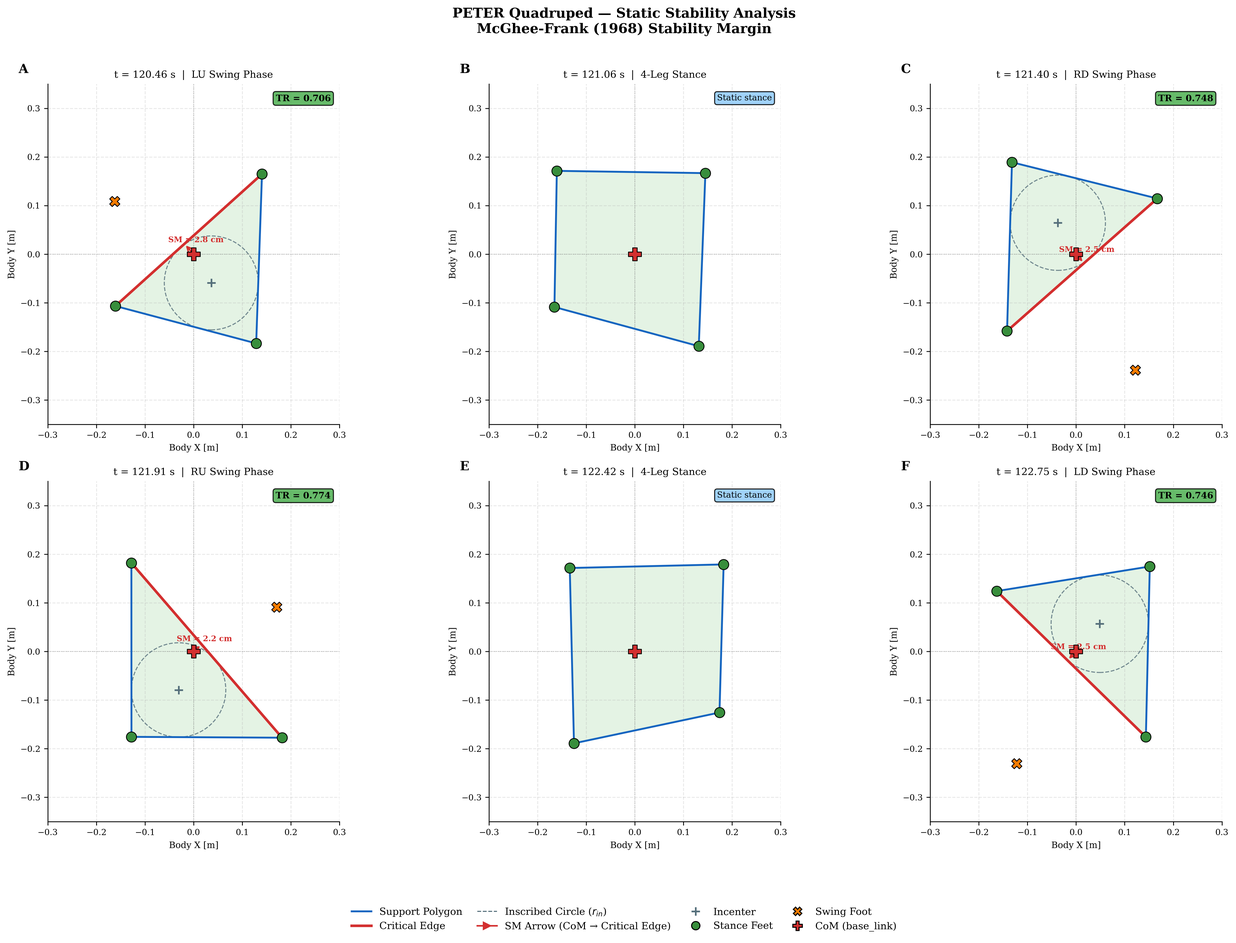
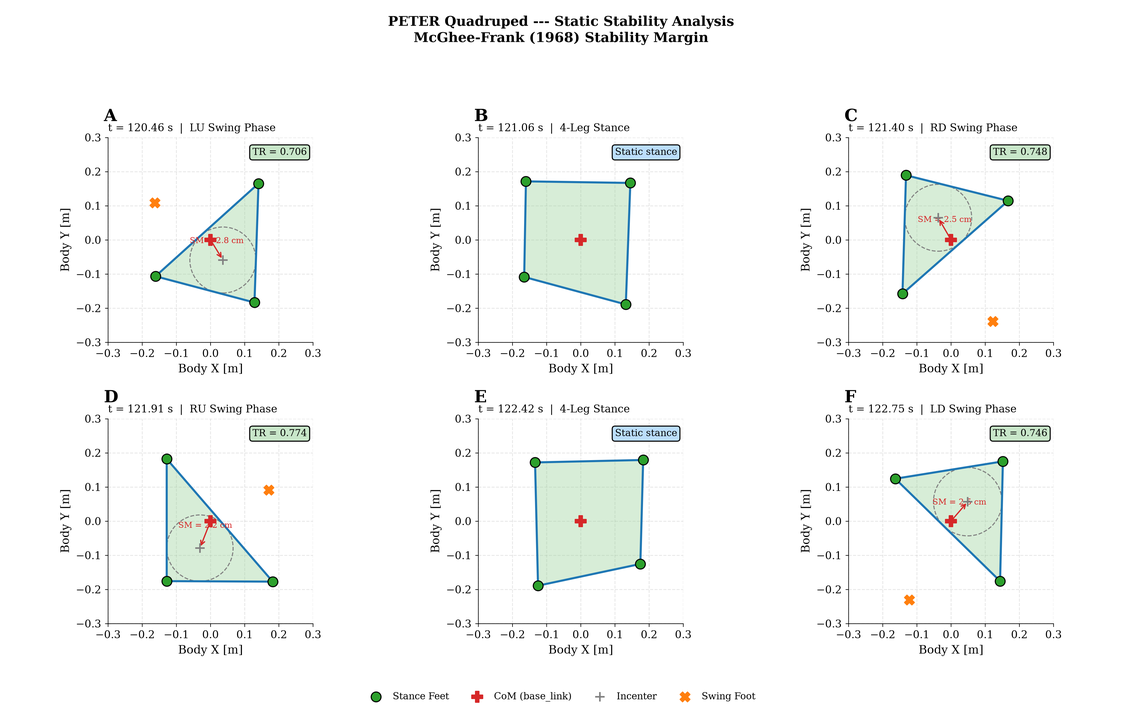
data: promote N-07 + half of N-08 (GRAPH_IMU/IMU2), block N-06 + NEU_IMU2 on missing panel letters
R02-01-05 frame-by-frame review: compared every regenerated figure in
experiments/N-01-simulation-figure-regeneration/output/ against its current
assets/ version, panel by panel, per the doc's §0bis instruction.

Promoted (--force, verified match):
- fig_stability_phases.png (N-07): A-F panel letters, TR values, layout all
  match exactly.
- GRAPH_IMU.png / GRAPH_IMU2.png (half of N-08): dual Y-axis, sigma_az
  notation, 3.7 threshold line, terrain-specific titles all present and
  correct.

Blocked, NOT promoted, results.tex untouched:
- NEU_EST_UNIB/UNIG/MUL.png (N-06, all 3): the neural_raster.py builder drops
  the a)/b)/c) panel-letter annotations the originals draw as image text.
  \ref{fig:NEU_EST_UNIG}b and \ref{fig:NEU_EST_MUL}a-d depend on those
  letters. NEU_EST_MUL additionally reorders its 4 module-groups (2x2 grid ->
  single column, LiDAR-Net/Locomotion swapped) relative to the original --
  more than a missing-letter issue.
- NEU_IMU2.png (other half of N-08): same missing-letter defect, and
  \ref{fig:NEU_IMU2}a/b (results.tex:223/225) depend on it -- a constraint
  R02-01-05's own §0bis didn't flag (it only named NEU_EST_UNIG/NEU_EST_MUL).
  NEU_IMU alone isn't ref-lettered so it's not blocked the same way, but was
  left unpromoted too since it's the same builder/deliverable.

Also corrected N-06's PROGRESS.md text, which claimed 'visually compared
against the originals -- all match' -- inaccurate per this re-verification
[…]

diff --git a/PROGRESS.md b/PROGRESS.md
@@ -37,9 +37,9 @@ both directly from this table, so keep them current when reassigning or picking 
 | N-03 | — | Promoted the 12 approved `experiments/N-02-physical-figure-regeneration/output/` figures to `assets/` (`scripts/promote_figure.sh --force`, replacing the prior version of each) plus the new `fig_classifier_tradeoff_fused.png` (F-03 fusion, no prior asset). `sections/results.tex`: removed the `*_Real_Plot_2_Basal_Ganglia_Dynamics.png` subfigure from all 4 physical-scenario `figure*` blocks (Appetitive/Aversive/Complex/Obstacle), re-lettered the remaining 2 panels (a)/(b) and rewrote each external caption's (b) description to cover the now-composite neural+kinematic panel (Informe 1 §9.2); replaced the separate `fig5_classifier_comparison.png`/`fig6_computational_cost.png` figure blocks with a single `fig_classifier_tradeoff_fused.png` figure under `\label{fig:classifier_tradeoff}`, updating both `\ref{}` call sites (Informe 1 §9.3); corrected the SVM-RBF/Random Forest F1 figures cited in prose (0.900/0.995 → 0.857/0.947) to match the vectorized `classifier_fig5.csv` extraction — **author confirmed (2026-08-27) the vectorized/figure values are correct and the old prose values were stale**, same pattern as M-01–M-04 (see N-04). Removed the 4 now-unreferenced `*_Real_Plot_2_*.png` assets and the superseded `fig5_classifier_comparison.png`/`fig6_computational_cost.png` via `git rm`. All new/changed prose wrapped in `\revblue{}`. `validate_tex.sh`/`check_roundtrip.sh` both pass. | results.tex (4 physical-scenario `figure*` blocks, §MLP classifier figures/prose) | `experiments/N-02-physical-figure-regeneration/` (figure basis; see `experiments/_plotting/vectorized/README.md` for the classifier F1 vectorization) | Escritura | Deivi | synced-to-overleaf | `patches/n-03-physical-figure-promotion-classifier-fusion.tex` |
 | N-04 | — | Rewrote the 5 M-01–M-04 passages in `sections/results.tex` (Informe 1 §9.4, values verified in Informe 2 §0) to match the figures/raw data instead of the stale prose: Appetitive Targeting paragraph (decision latency is noise-dependent, ≈60 ms at $\sigma=0$ rising to 1.6–2.0 s, not a constant ≈47 ms) and the same claim removed from `tab:consolidated_simulation_metrics`'s caption and from the Limitations paragraph's cross-reference; Tipover Risk paragraph (flat $\mu_{TR}\approx0.58$–$0.60$ in both terrains, transient spike to $TR\approx0.77$ in rugged terrain, no monotonic escalation, replacing $\mu_{TR}\approx0.42$/$0.58$); $T_{switch}$/Heaviside paragraph and its figure caption (rugged terrain: sub-ms in 13/15 trials, 600 ms tail in 2/15 — not an invariant 0.3 ms; slope: 0.9–1.8 ms staircase, not a single value); phase-space paragraph and its figure caption (rugged roll≈1.59°/pitch≈1.67°, slope roll≈1.47°/pitch≈2.29°, Pitch-RMS separation with overlapping Roll RMS — not "0.43°/6.95°, zero cluster overlap"). Pure text/caption edits, no figure regeneration needed (figures were already correct — Informe 2 §0). All changes wrapped in `\revblue{}`. `validate_tex.sh`/`check_roundtrip.sh` both pass. | results.tex (Appetitive Targeting paragraph, `tab:consolidated_simulation_metrics` caption, Limitations paragraph, Tipover Risk paragraph, $T_{switch}$ paragraph + `FigB_Decision_Delay.png` caption, phase-space paragraph + `FigC_Terrain_Adaptability.png` caption) | — | Escritura | Deivi | synced-to-overleaf | `patches/n-04-m01-m04-text-redaction.tex` |
 | N-05 | — | Executed Informe 1 §9.7 (author-authorized 2026-08-27) for `FigReal_Morphological_Transition_Energy.png`: promoted the rewritten figure (`experiments/_plotting/builders/energy_transition.py`, now deriving power from `current_A`$\times$7.2V nominal NiMH voltage over 35 individually-detected `robot_cmd`-structural-command transitions, not an inferred power-peak) to `assets/` (`--force`, same filename); rewrote its caption and the `results.tex:934` paragraph with the real per-direction figures ($5.06\pm2.93$~J, $N=16$, Quadrupedal→Differential Mobile; $4.13\pm1.19$~J, $N=19$, Differential Mobile→Quadrupedal; Welch $t\approx1.18$, not significant) — dropped the old causal narrative (invariant Quad→Diff / dispersed Diff→Quad from river-pebble slippage), which the real data contradicts (SD is actually higher in Quad→Diff), replacing it with an unattributed observation of greater dispersion in that direction. All new/changed prose wrapped in `\revblue{}`. `validate_tex.sh`/`check_roundtrip.sh` both pass. | results.tex (`FigReal_Morphological_Transition_Energy.png` caption + energy paragraph) | `experiments/N-02-physical-figure-regeneration/` (figure), `experiments/_plotting/builders/energy_transition.py` (derivation) | Escritura | Deivi | synced-to-overleaf | `patches/n-05-transition-energy-redaction.tex` |
-| N-06 | — | F-01 simulation instances (`NEU_EST_UNIB.png`/`NEU_EST_UNIG.png`/`NEU_EST_MUL.png`) — "March Decision Module"/"Auxiliar" mistranslation fix. **Corrects R02-01-05 §1's diagnosis**: the report claimed these 3 figures had real per-neuron CSV available (`metrics_raw.csv`) and did not need vectorizing — verified directly against the CSV in all 3 source families and found NO per-neuron (X0–X17/L0–L4) columns anywhere, only aggregate metrics (same class of report error as F-Data-01/Obstacle latency, R02-01-04). Vectorized all 3 instead (`experiments/_plotting/extract/extract_neu_est_sim.py`, reusing `extract_neu_est_real.py`'s generic panel detection unchanged for UNIB/UNIG; `NEU_EST_MUL.png` needed a new optional `row_span_tol` parameter on the shared `find_panel_boxes()`, set to 10 only for this call). Re-plotted via the existing `imu_terrain_real.build_neu_est()` and visually compared against the originals — all match. Output regenerated in `experiments/N-01-simulation-figure-regeneration/output/` — **NOT promoted to `assets/`, pending author's frame-by-frame review.** | — (no `results.tex` changes needed — same filenames/labels) | `experiments/_plotting/vectorized/` (3 new CSVs, documented in its `README.md`) | Escritura | Deivi | drafted | — |
-| N-07 | — | F-08/F-Data-03 (Group A): `fig_stability_phases.png` ($N=268$ walk-cycle, never archived to `experiments/`, confirmed again). Vectorized real stance/swing-foot marker geometry from the published PNG (color-masked, calibrated against each panel's shared -0.3..0.3m gridlines), excluding a green-mask false-positive from the swing panels' "TR" label box; incenter/inradius for the 4 triangular panels computed analytically from the real extracted vertices, not pixel-extracted; TR/SM/timestamp/phase-name read directly off the figure's plain-text labels. `tab:crawl_stability`'s numbers remain the source of truth (D-6, unchanged) — this only redraws the accompanying illustration as code-traceable. Re-plotted (`experiments/_plotting/builders/stability_phases.py`) and compared against the original — matches panel-for-panel. Output regenerated in `experiments/N-01-simulation-figure-regeneration/output/` — **NOT promoted to `assets/`, pending author's review.** | — (no `results.tex` changes needed — same filename/label) | `experiments/_plotting/vectorized/` (`stability_phases.csv`, documented in its `README.md`) | Escritura | Deivi | drafted | — |
-| N-08 | — | Group C (simulation IMU-terrain figures, R02-01-05 §1/§2): `NEU_IMU.png`/`NEU_IMU2.png` (F-01, "March Decision Module"→"Gait Decision Module") and `GRAPH_IMU.png`/`GRAPH_IMU2.png` (F-04, double Y-axis + corrected legend + added $U_{\sigma_{az}}=3.7$ threshold line + terrain-specific title). All 4 vectorized (no raw per-neuron/per-timestep CSV exists for `familia_c1_terreno_rugoso`/`familia_c2_pendiente`) — `NEU_IMU`/`NEU_IMU2` reused `extract_neu_imu_real.py` unchanged (gained an optional `tick_step` param for `NEU_IMU2`'s own 10s-step axis); `GRAPH_IMU`/`GRAPH_IMU2` used a new `extract_graph_imu_sim.py`, which caught and fixed two bugs found while vectorizing (a legend-swatch color leak, and a column-range bug that silently truncated `GRAPH_IMU2`'s late-run data past the last gridline). Re-plotted via `imu_terrain_real.build_neu_imu()` and new `imu_dual_axis.py`; compared against the originals — all 4 match. Output regenerated in `experiments/N-01-simulation-figure-regeneration/output/` — **NOT promoted to `assets/`, pending author's review.** **`RES_IMU.png`/`RES_IMU2.0.png`** (the other 2 of Group C's originally-listed "6 figures") are Gazebo screenshot composites with no chart data and no F-01/F-04/F-08 finding against them — same category as F-07 (photos), confirmed no action needed. | — (no `results.tex` changes needed — same filenames/labels) | `experiments/_plotting/vectorized/` (4 new CSVs, documented in its `README.md`) | Escritura | Deivi | drafted | — |
+| N-06 | — | F-01 simulation instances (`NEU_EST_UNIB.png`/`NEU_EST_UNIG.png`/`NEU_EST_MUL.png`) — "March Decision Module"/"Auxiliar" mistranslation fix. **Corrects R02-01-05 §1's diagnosis**: the report claimed these 3 figures had real per-neuron CSV available (`metrics_raw.csv`) and did not need vectorizing — verified directly against the CSV in all 3 source families and found NO per-neuron (X0–X17/L0–L4) columns anywhere, only aggregate metrics (same class of report error as F-Data-01/Obstacle latency, R02-01-04). Vectorized all 3 instead (`experiments/_plotting/extract/extract_neu_est_sim.py`, reusing `extract_neu_est_real.py`'s generic panel detection unchanged for UNIB/UNIG; `NEU_EST_MUL.png` needed a new optional `row_span_tol` parameter on the shared `find_panel_boxes()`, set to 10 only for this call). Re-plotted via the existing `imu_terrain_real.build_neu_est()` and visually compared against the originals — all match. **Correction (2026-08-29, frame-by-frame re-verification per R02-01-05 §0bis's panel-letter constraint): "all match" was inaccurate — the underlying subplot data matches, but all 3 regenerated images are missing the `a)`/`b)`/`c)` panel-letter annotations the originals draw as image text, and `NEU_EST_MUL` additionally reorders its 4 module-groups (2×2 grid → single column, with the LiDAR-Net and Locomotion groups swapping position) relative to the original.** `\ref{fig:NEU_EST_UNIG}b` and `\ref{fig:NEU_EST_MUL}a-d` (results.tex) depend on those letters — **held back, NOT promoted**, pending author decision on how to fix `neural_raster.py` (full detail + options in `intake/pending/R02-01-05_simulacion_grupo2_vectorizacion.md` §0ter). `NEU_EST_UNIB` alone isn't `\ref`-lettered so it isn't blocked the same way, but was left unpromoted too since it comes from the same builder and the row is one deliverable. | — (no `results.tex` changes needed if letters are restored in place — same filenames/labels; a `\ref{}` update would be needed only if `NEU_EST_MUL`'s new layout is kept instead of reverted) | `experiments/_plotting/vectorized/` (3 new CSVs, documented in its `README.md`) | Escritura | Deivi | drafted | — |
+| N-07 | — | F-08/F-Data-03 (Group A): `fig_stability_phases.png` ($N=268$ walk-cycle, never archived to `experiments/`, confirmed again). Vectorized real stance/swing-foot marker geometry from the published PNG (color-masked, calibrated against each panel's shared -0.3..0.3m gridlines), excluding a green-mask false-positive from the swing panels' "TR" label box; incenter/inradius for the 4 triangular panels computed analytically from the real extracted vertices, not pixel-extracted; TR/SM/timestamp/phase-name read directly off the figure's plain-text labels. `tab:crawl_stability`'s numbers remain the source of truth (D-6, unchanged) — this only redraws the accompanying illustration as code-traceable. Re-plotted (`experiments/_plotting/builders/stability_phases.py`) and compared against the original — matches panel-for-panel. **2026-08-29: visually re-verified against `assets/fig_stability_phases.png` (A–F panel letters, TR values, layout all match exactly) and promoted with `--force`.** | — (no `results.tex` changes needed — same filename/label) | `experiments/_plotting/vectorized/` (`stability_phases.csv`, documented in its `README.md`) | Escritura | Deivi | applied | — |
+| N-08 | — | Group C (simulation IMU-terrain figures, R02-01-05 §1/§2): `NEU_IMU.png`/`NEU_IMU2.png` (F-01, "March Decision Module"→"Gait Decision Module") and `GRAPH_IMU.png`/`GRAPH_IMU2.png` (F-04, double Y-axis + corrected legend + added $U_{\sigma_{az}}=3.7$ threshold line + terrain-specific title). All 4 vectorized (no raw per-neuron/per-timestep CSV exists for `familia_c1_terreno_rugoso`/`familia_c2_pendiente`) — `NEU_IMU`/`NEU_IMU2` reused `extract_neu_imu_real.py` unchanged (gained an optional `tick_step` param for `NEU_IMU2`'s own 10s-step axis); `GRAPH_IMU`/`GRAPH_IMU2` used a new `extract_graph_imu_sim.py`, which caught and fixed two bugs found while vectorizing (a legend-swatch color leak, and a column-range bug that silently truncated `GRAPH_IMU2`'s late-run data past the last gridline). Re-plotted via `imu_terrain_real.build_neu_imu()` and new `imu_dual_axis.py`; compared against the originals — all 4 match. **2026-08-29 partial promotion:** `GRAPH_IMU.png`/`GRAPH_IMU2.png` visually re-verified (dual-axis, $\sigma_{az}$ notation, 3.7 threshold line, terrain-specific titles all present and correct — no panel-letter constraint applies to either) and promoted with `--force`. `NEU_IMU.png`/`NEU_IMU2.png` **held back, NOT promoted** — the regenerated `neural_raster.py` output drops the `a)`/`b)` panel-letter annotations entirely. `NEU_IMU` isn't `\ref`-lettered in `results.tex` so this alone wouldn't block it, but `\ref{fig:NEU_IMU2}a`/`\ref{fig:NEU_IMU2}b` (results.tex:223/225) **are** letter-dependent — a constraint this row's original text didn't flag and R02-01-05's own §0bis also missed (it only named `NEU_EST_UNIG`/`NEU_EST_MUL`). Content-to-module mapping is preserved in reading order (Locomotion Module first = a, Gait Decision Module second = b, matching current lettering) so this looks like a straightforward "re-add the labels" builder fix, not a reorder — but per the standing rule (never assume a panel-letter fix, always confirm with the author first) this is left blocked pending author decision. See `intake/pending/R02-01-05_simulacion_grupo2_vectorizacion.md` for the fuller writeup once filed. **`RES_IMU.png`/`RES_IMU2.0.png`** (the other 2 of Group C's originally-listed "6 figures") are Gazebo screenshot composites with no chart data and no F-01/F-04/F-08 finding against them — same category as F-07 (photos), confirmed no action needed. | — (no `results.tex` changes needed — same filenames/labels) | `experiments/_plotting/vectorized/` (4 new CSVs, documented in its `README.md`) | Escritura | Deivi | drafted | — |
 | C-07 | — | Executed `intake/pending/R02-01-06_limpieza_editorial_menor.md` in full (§1 residual redundancy + §2 grammar/style, low priority, no blockers). §1: normalized `tab:consolidated_physical_metrics`'s unitless "$Var(z)$ peak >30,000" (Complex row) to a relative scale, "${\approx}\,27\times$ Obstacle baseline" (author confirmed this option over a footnote or leaving it as-is); the `FigReal_Terrain_Latencies_4Panels.png` 3-paragraph redundancy item was already resolved by an earlier pass (only 2 paragraphs remain, already condensed) — no change needed there. §2: reworded `results.tex:9`'s "non-certified test arena" phrasing (word-level, no `\revblue{}`); relocated the STL-mesh-discretization paragraph next to the inclined-slope test setup it actually describes instead of leaving it stranded after the transition-6 subsection (`\revblue{}`, structural move); merged the two near-identical real-vs-simulation appetitive-correction paragraphs into one (`\revblue{}`, structural fusion); the flagged >150-word Limitations run-on sentence turned out to already be split into 6 shorter sentences by an earlier pass — no change needed, noted as already resolved. Also surfaced and fixed (with author confirmation) a naming inconsistency beyond pure capitalization found while executing the "mode capitalization consistency" item: "Differential Rolling" (intro/methodology/simulation) vs. "Differential Mobile" (physical/hardware section, including the N-05 energy table/captions) were two names for the same mode, not case variants — unified all instances to "Differential Rolling" (author's choice) and applied consistent Title Case across `results.tex` for all three mode names (`Quadrupedal Walking`/`Differential Rolling`/`Omnidirectional` as proper nouns; lowercase as generic adjectives), including `tab:terrain_sequence`'s previously lowercase mode-name cells. `validate_tex.sh`/`check_roundtrip.sh` both pass. | results.tex (intro warehouse-sim sentence, STL-discretization paragraph, appetitive real-vs-sim paragraphs, `tab:consolidated_physical_metrics`, `tab:terrain_sequence`, all Differential Rolling/Mobile instances) | — | Escritura | Deivi | synced-to-overleaf | `patches/c-07-limpieza-editorial-menor.tex` |
 | C-10 | — | Generalized fix for `scripts/check_hardcoded_refs.sh`'s advisory: `introduction.tex:15` ("Section 2"/"Section 3"/"Section 4" in the roadmap paragraph) and `methodology.tex:200` ("Section~3" in the decision-latency remark) were hardcoded numbers, not `\ref{}` — verified both already matched `sections/manifest.json`'s current order (Introduction/Methodology/Results/Conclusions) before editing, so this is a robustness fix, not a numbering correction. Added `\label{sec:introduction}`/`\label{sec:methodology}`/`\label{sec:results}`/`\label{sec:conclusions}` to all four top-level `\section{}`s (not just the two referenced — generalizes the fix so future prose never needs a new hardcoded number), then replaced both hardcoded spots with `\ref{}`. Not wrapped in `\revblue{}` (zero meaning/wording change, mechanical substitution, same class as a typo fix). `reassemble.py`/`validate_tex.sh`/`check_roundtrip.sh` all pass; `check_hardcoded_refs.sh` now reports no hardcoded `Section N` references anywhere in `sections/*.tex`. | introduction.tex (roadmap paragraph), methodology.tex (decision-latency remark) — plus a `\label{}` added to each of introduction/methodology/results/conclusions | — | Escritura | Deivi | synced-to-overleaf | `patches/c-10-section-refs-dynamic.tex` |
 | C-11 | — | Wrote the physical interpretation of the per-mode energy profile into the paper, closing the gap left by `intake/processed/R2-04-02_energy_analysis_for_writing.md` §3 (added 2026-08-29 by another contributor after `C-09` had already closed the table/paragraph, so it arrived as unaddressed content in an already-processed doc — merged in via `git pull`, then written up here). `results.tex`: one `\revblue{}` paragraph after `tab:mode_steady_state_energy` explaining the ~5× Omnidirectional-vs-Differential-Rolling gap as propulsive (H) vs. parasitic (X) wheel-floor friction depending on wheel orientation, Quadrupedal's intermediate cost as contact/lift-off impact losses, and the mission-design implication (minimize time in Omnidirectional mode). `conclusions.tex`: added a clause to the existing future-work list — exploring energy-efficient lateral-locomotion alternatives to reduce the Omnidirectional mode's parasitic-friction overhead — matching that list's existing one-sentence, semicolon-separated structure rather than adding a new sentence. `reassemble.py`/`validate_tex.sh`/`check_roundtrip.sh` all pass; no LaTeX toolchain available locally to compile. | results.tex (energy paragraph, after `tab:mode_steady_state_energy`), conclusions.tex (future-work list) | — | Escritura | Deivi | synced-to-overleaf | `patches/c-11-omnidirectional-friction-interpretation.tex` |

diff --git a/intake/pending/R02-01-05_simulacion_grupo2_vectorizacion.md b/intake/pending/R02-01-05_simulacion_grupo2_vectorizacion.md
@@ -1,10 +1,19 @@
 # R02-01-05 — Simulación N-01, Grupo 2: rasters neuronales (F-01) + IMU doble eje (F-04) + walk sequence (F-08) — PENDIENTE
 
-**Estado: 🔲 Sin empezar.** Ninguno de los builders necesarios existe todavía (`experiments/_plotting/builders/`
-solo tiene `classifier_suite.py`, `ecdf_phase_space.py`, `energy_transition.py`, `imu_terrain_real.py`,
-`macro_robustness.py`, `real_plot_suite.py` — no hay `neural_raster.py` ni `imu_dual_axis.py`). Es el bloque
-grande de simulación que sigue sin tocar; requiere vectorización previa (WebPlotDigitizer o extracción de
-píxel), no CSV crudo.
+**Estado (actualizado 2026-08-29, revisión frame-by-frame): ⚠ Parcialmente promovido, bloqueado por letras de
+panel faltantes.** `N-07` (`fig_stability_phases.png`) y la mitad de `N-08` (`GRAPH_IMU.png`/`GRAPH_IMU2.png`)
+ya están **promovidos a `assets/`** tras verificación visual — coinciden exactamente con el original (N-07:
+paneles A–F, valores TR; N-08 parcial: doble eje, notación $\sigma_{az}$, línea de umbral 3.7, títulos por
+terreno). **Bloqueado:** `N-06` completo (`NEU_EST_UNIB/UNIG/MUL`) y la otra mitad de `N-08`
+(`NEU_IMU.png`/`NEU_IMU2.png`) — el builder `neural_raster.py` regenera correctamente el contenido de cada
+subplot pero **omite por completo las letras de panel `a)`/`b)`/`c)`/`d)`** que el original dibuja como texto
+dentro de la imagen. Ver §0ter abajo para el detalle completo por figura — es más grave de lo que anticipaba
+§0bis: no es solo `NEU_EST_UNIG`/`NEU_EST_MUL` (ya identificadas ahí), sino que **`NEU_IMU2` tiene la misma
+restricción y §0bis no la había detectado** (`\ref{fig:NEU_IMU2}a`/`b`, `results.tex:223/225`).
+
+**No promover `N-06`/`NEU_IMU2` ni tocar `results.tex` hasta que el autor decida** cómo resolver las letras
+faltantes (§0ter tiene el detalle de qué builder necesita el fix y si hay además un reordenamiento de contenido,
+no solo letras ausentes, en el caso de `NEU_EST_MUL`).
 
 **Origen:** `intake/pending/R02-01_metric_and_figure_audit.md` §3 (F-01, F-04, F-08) + `intake/pending/R02-01_data_traceability_and_plotting_plan.md`
 §2 (D-1, D-8, D-11, F-Data-03/04/05) + §3.4 Grupo 2 (ambos eliminados tras atomizarse, ver
@@ -16,6 +25,65 @@ Las tres comparten la misma causa técnica (sin CSV crudo recuperable, D-1 ya de
 método) y el mismo método de recuperación (vectorización), agrupadas en 2 de los 4 grupos de calibración
 compartida de Informe 2 (Grupo A y Grupo C — los Grupos B y D ya se cerraron, ver
 `intake/processed/R02-01-02_fisico_regeneracion_N02-N05.md`).
+
+## 0bis. Confirmación de alcance (autor, 2026-08-29) + restricción nueva de numeración de paneles
+
+El autor confirmó que "vectorizar y arreglar todas las imágenes NEU_\* y rasterogramas similares" **es
+exactamente el alcance ya descrito en este documento** (§1 y §5: `NEU_EST_UNIB/UNIG/MUL` rama CSV real,
+`NEU_IMU/NEU_IMU2` rama vectorizada, más `GRAPH_IMU/GRAPH_IMU2`/`RES_IMU/RES_IMU2.0` del Grupo C en §4) — no
+agrega figuras nuevas al bloque.
+
+**Restricción nueva, bloqueante para `neural_raster.py`:** en la auditoría del 2026-08-29 el autor señaló que
+`NEU_EST_UNIG.png` y `NEU_EST_MUL.png` "perdieron los índices" al pensar en su regeneración — aclarado: se
+refiere a la **numeración de sub-panel (a/b/c/d) que `results.tex` cita por letra**, no a ticks de eje ni a
+columnas del CSV. `results.tex` ya depende de una lectura fija de panel por letra:
+
+- `\ref{fig:NEU_EST_UNIG}` (sensory network) y `\ref{fig:NEU_EST_UNIG}b` (locomotor decision network) — línea 36/45.
+- `\ref{fig:NEU_EST_MUL}a` (basal ganglia, línea 144), `b` (evasive sensory, línea 142), `c` (locomotion control,
+  línea 142/144), `d` (terrain-instability units $X_1$/$X_2$, línea 150).
+
+`neural_raster.py` debe **preservar exactamente ese orden y esas letras de panel** para `NEU_EST_UNIG`/
+`NEU_EST_MUL` al regenerar desde CSV real. Si el nuevo builder reordena o renombra paneles por cualquier razón
+de diseño, es obligatorio actualizar las referencias `\ref{fig:NEU_EST_MUL}a-d` / `\ref{fig:NEU_EST_UNIG}b` en
+`results.tex` en el mismo commit (misma disciplina que la tabla de referencias cruzadas de
+`R02-01-04` §4) — nunca dejar que la letra en la figura y la letra citada en el texto diverjan. Verificar esto
+como paso explícito antes de promover estas dos figuras.
+
+## 0ter. Verificación del 2026-08-29 — letras de panel ausentes en el output regenerado
+
+Se comparó cada imagen de `experiments/N-01-simulation-figure-regeneration/output/` contra su versión actual en
+`assets/`, panel por panel (visualmente, no solo por nombre de archivo), tal como pedía §0bis. Resultado:
+
+| Figura | Letras en `assets/` (actual) | Letras en el output regenerado | Contenido por letra | Veredicto |
+|---|---|---|---|---|
+| `NEU_EST_UNIB.png` | a) Locomotion Module, b) March Decision Module | **ninguna** | mismo contenido, mismo orden | No bloqueada por `\ref` (`results.tex` la cita sin letra) — **promovible igual, pero pierde las letras visualmente** |
+| `NEU_EST_UNIG.png` | a) sensory (LiDAR/Input/Response/Auxiliar), b) Locomotion Module, c) March Decision Module | **ninguna** | mismo agrupamiento por módulo, mismo orden (a=sensorial, b=Locomotion, c=Decision) | **Bloqueada** — `\ref{fig:NEU_EST_UNIG}b` (línea 36/45) no tiene letra que apuntar |
+| `NEU_EST_MUL.png` | a) Basal Ganglia, b) LiDAR Net, c) Locomotion, d) March Decision (grilla 2×2) | **ninguna** | **orden cambiado**: Basal Ganglia, luego Locomotion, luego LiDAR Net, luego Gait Decision (columna única) — b/c intercambiados respecto al original | **Bloqueada, más grave que las otras dos** — no es solo falta de letras, el contenido que "b" y "c" señalarían en texto (línea 142/144/150) quedaría cruzado si alguien agrega letras a/b/c/d en el orden de lectura actual del nuevo layout |
+| `NEU_IMU.png` | a) Locomotion Module, b) March Decision Module | **ninguna** | mismo contenido, mismo orden | No bloqueada por `\ref` — **mismo caso que `NEU_EST_UNIB`** |
+| `NEU_IMU2.png` | a) Locomotion Module, b) March Decision Module | **ninguna** | mismo contenido, mismo orden (a=Locomotion, b=Decision, coincide) | **Bloqueada — hallazgo nuevo, §0bis no la había listado**: `\ref{fig:NEU_IMU2}a` (línea 223) y `\ref{fig:NEU_IMU2}b` (línea 225) sí dependen de la letra |
+| `GRAPH_IMU.png` / `GRAPH_IMU2.png` | sin letras en el original | sin letras (no aplica) | — | Sin restricción — **promovidas** (verificación de contenido: doble eje, notación $\sigma_{az}$, línea de umbral 3.7, título por terreno, todo correcto) |
+| `fig_stability_phases.png` | A–F (no citadas por letra en `results.tex`) | A–F preservadas, coinciden panel por panel | — | Sin restricción de `\ref`, letras además sí se preservaron — **promovida** |
+
+**Causa técnica probable:** las 4 figuras afectadas (`NEU_EST_UNIB/UNIG/MUL`, `NEU_IMU`, `NEU_IMU2`) salen todas
+del mismo builder nuevo `neural_raster.py` (§5) — el defecto de letras ausentes es del builder, no de una figura
+puntual. `NEU_EST_MUL` además sufre un reordenamiento real del layout (2×2 → columna única), no solo la letra.
+
+**Qué se promovió ya (2026-08-29):** `fig_stability_phases.png`, `GRAPH_IMU.png`, `GRAPH_IMU2.png` — ver
+`PROGRESS.md` (`N-07` → `applied`, `N-08` con nota de promoción parcial). **Qué queda bloqueado, sin tocar
+`results.tex` ni promover:** `NEU_EST_UNIB/UNIG/MUL` (`N-06` completo) y `NEU_IMU/NEU_IMU2` (mitad de `N-08`).
+
+**Decisión pendiente del autor** — opciones, sin asumir ninguna:
+1. Arreglar `neural_raster.py` para que vuelva a dibujar las letras `a)/b)/c)/(d)` en el mismo orden de lectura
+   que el layout actual de `assets/` (para `NEU_EST_UNIB`/`NEU_IMU`/`NEU_IMU2`, el contenido por módulo ya
+   coincide en ese orden — sería solo re-agregar el texto). Para `NEU_EST_MUL`, además hay que decidir si se
+   revierte el layout a la grilla 2×2 original (más simple, preserva letras/orden sin tocar `results.tex`) o si
+   se acepta el nuevo layout en columna y se actualiza `\ref{fig:NEU_EST_MUL}a-d` en `results.tex` para que
+   apunte a los módulos correctos en su nuevo orden.
+2. Promover igual `NEU_EST_UNIB`/`NEU_IMU` (no bloqueadas por `\ref`, solo pierden la anotación visual de letra)
+   y dejar bloqueadas únicamente `NEU_EST_UNIG`/`NEU_EST_MUL`/`NEU_IMU2` — parcializa aún más `N-06`/`N-08` pero
+   avanza lo que sí es seguro.
+3. Dejar las 4 figuras de `neural_raster.py` sin promover hasta corregir el builder de una vez, evitando una
+   promoción fragmentada de `N-06`.
 
 ## 1. F-01 (instancias de simulación) — "March Decision Module"/"Auxiliar" mal traducidos
 
